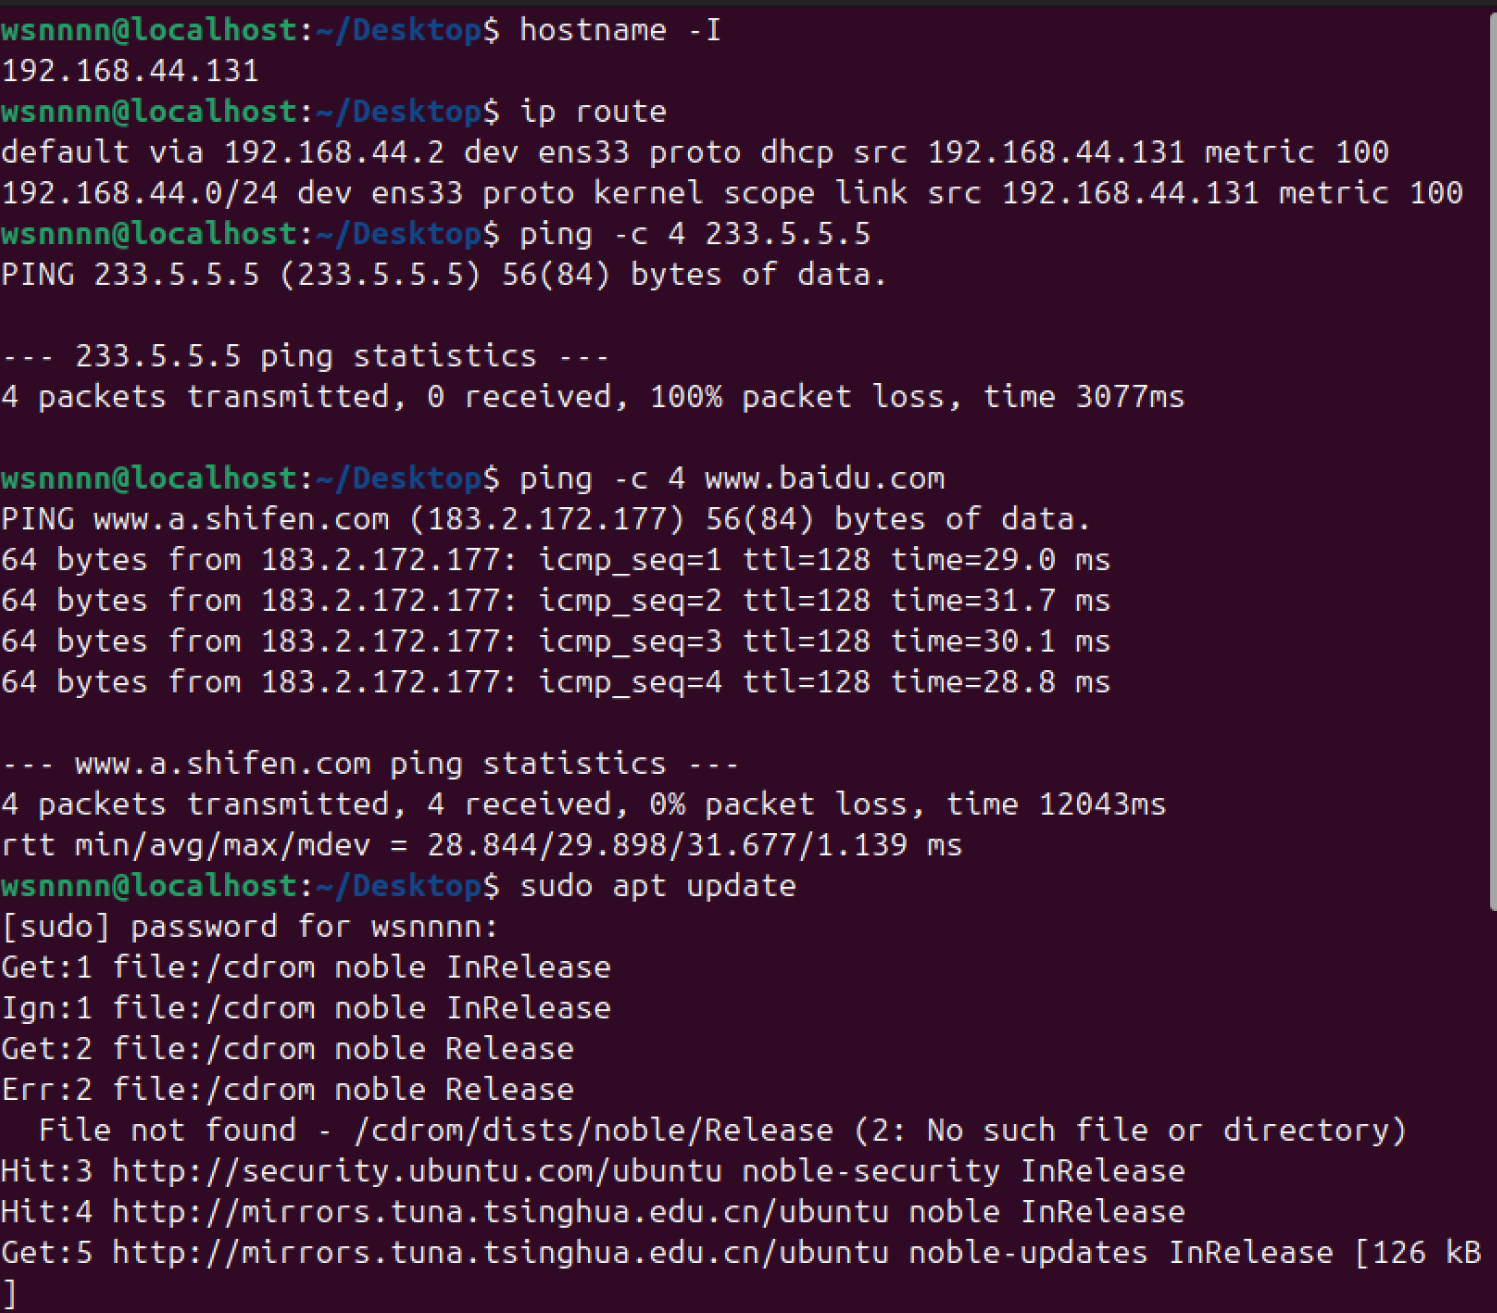
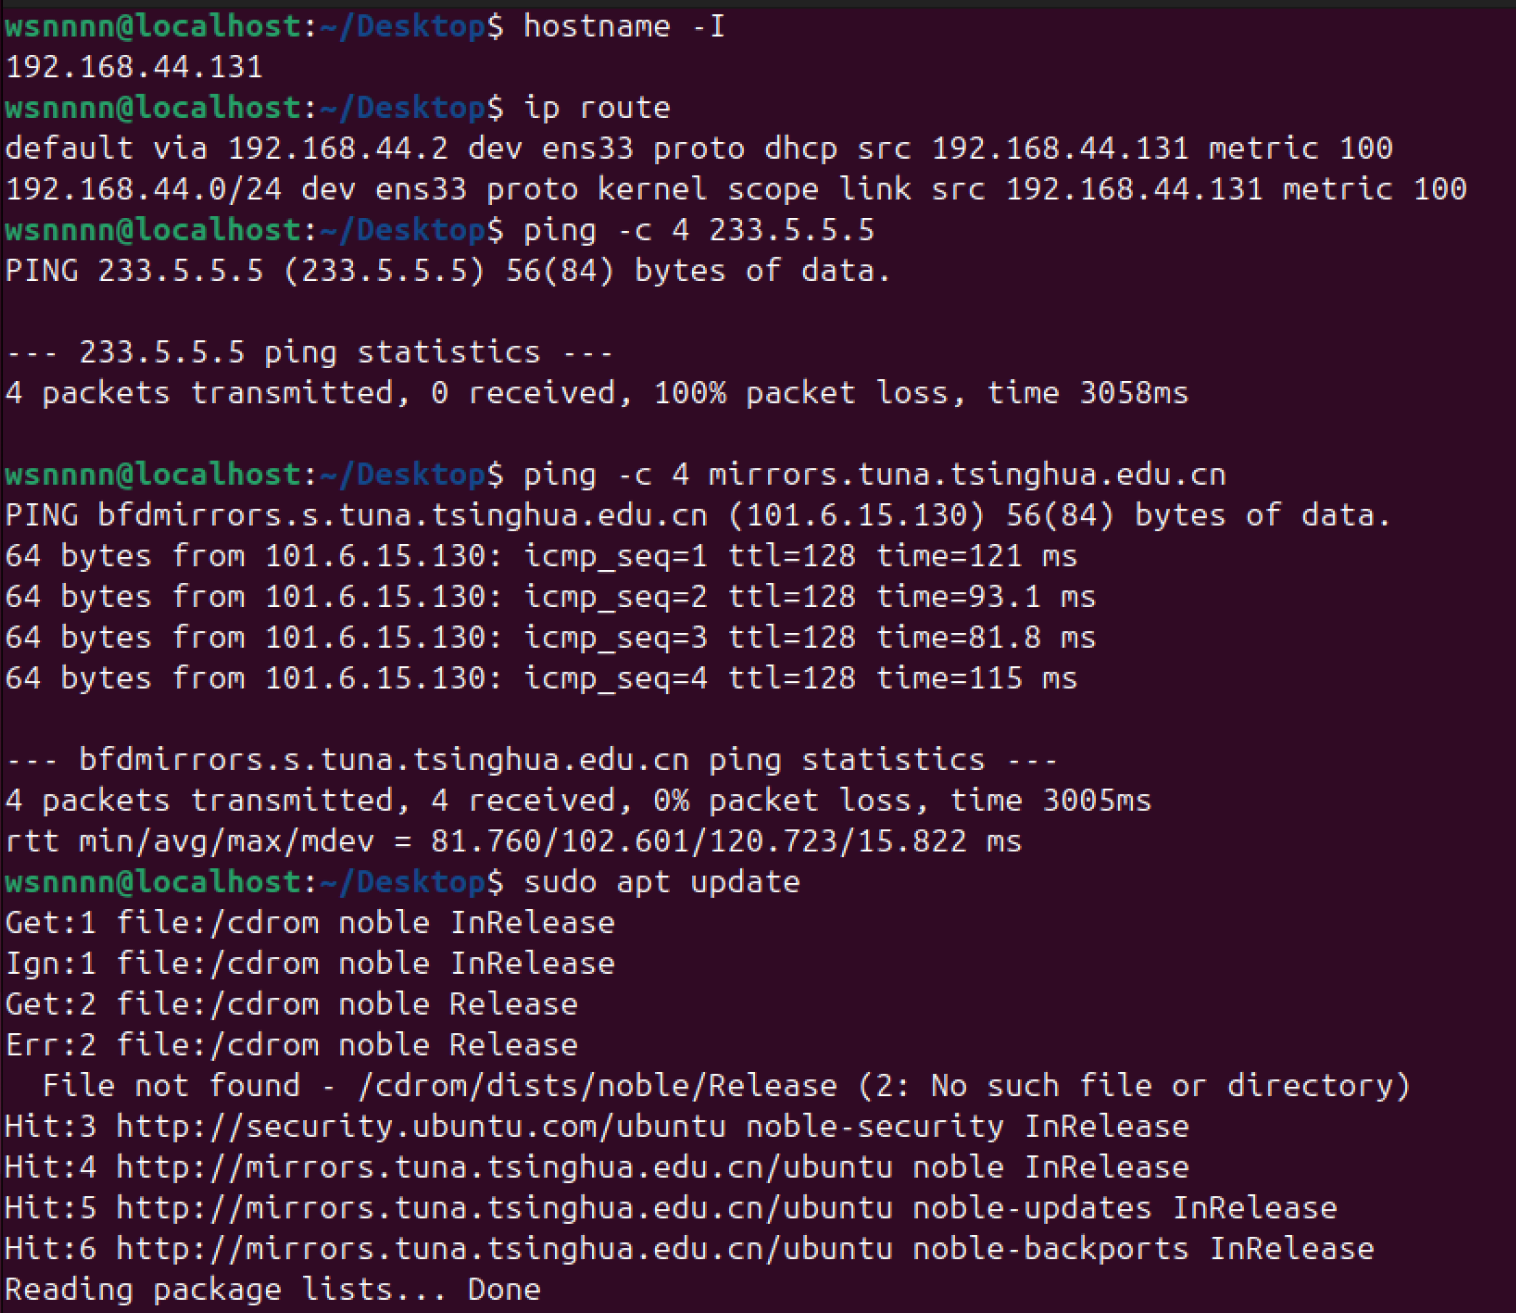
完成Lab1作业

diff --git a/2024010003沈笑冉/Lab1/Lab1.md b/2024010003沈笑冉/Lab1/Lab1.md
@@ -24,8 +24,8 @@ VMware Workstation Pro 26H1 for Windows
 
 | 项目 | 你的填写内容 |
 | :--- | :--- |
-| 已安装的 VMware 完整版本号 | 17.0.0 build-20800274|
-| 是否为教师指定版本 |否 |
+| 已安装的 VMware 完整版本号 | VMware Workstation Pro 26H1 for Windows|
+| 是否为教师指定版本 |是 |
 
 ![VMware 版本](imgs/lab1-vmware-version.png)
 
@@ -122,7 +122,7 @@ sudo apt update
 | 网络模式 | NAT  |
 | ping `223.5.5.5` 是否成功 | 是|
 | ping `mirrors.tuna.tsinghua.edu.cn` 是否成功 | 是|
-| 使用的软件源镜像站 | www.baidu.com|
+| 使用的软件源镜像站 | mirrors.tuna.tsinghua.edu.cn|
 | `sudo apt update` 是否成功 | 是|
 | 联网是否合格 | 是|
 
